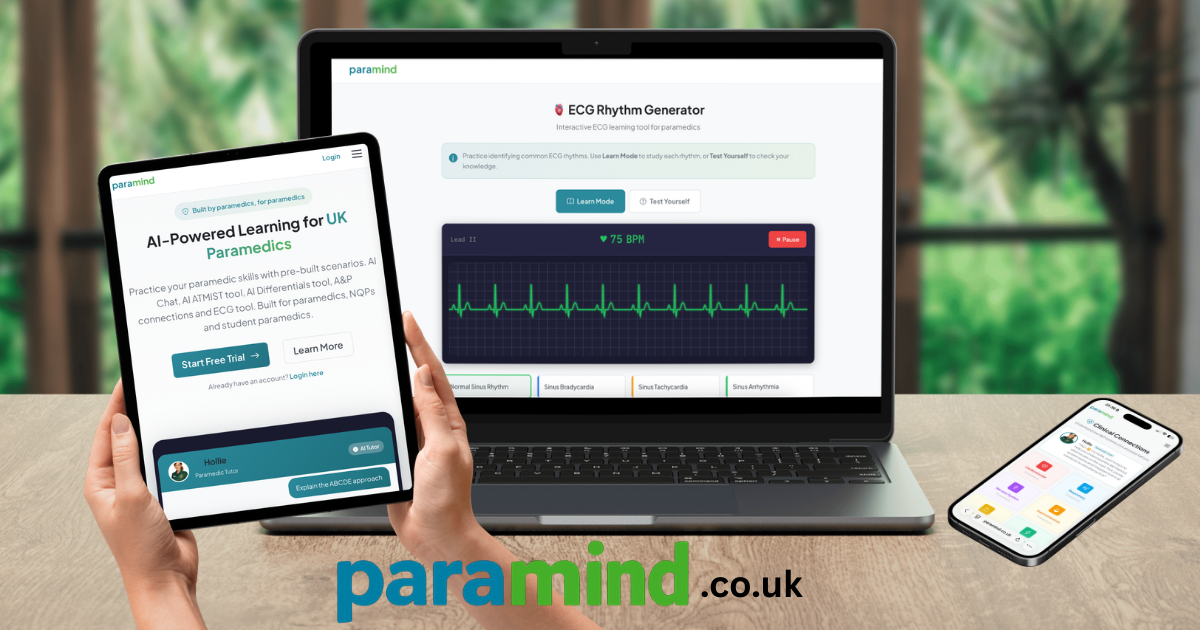
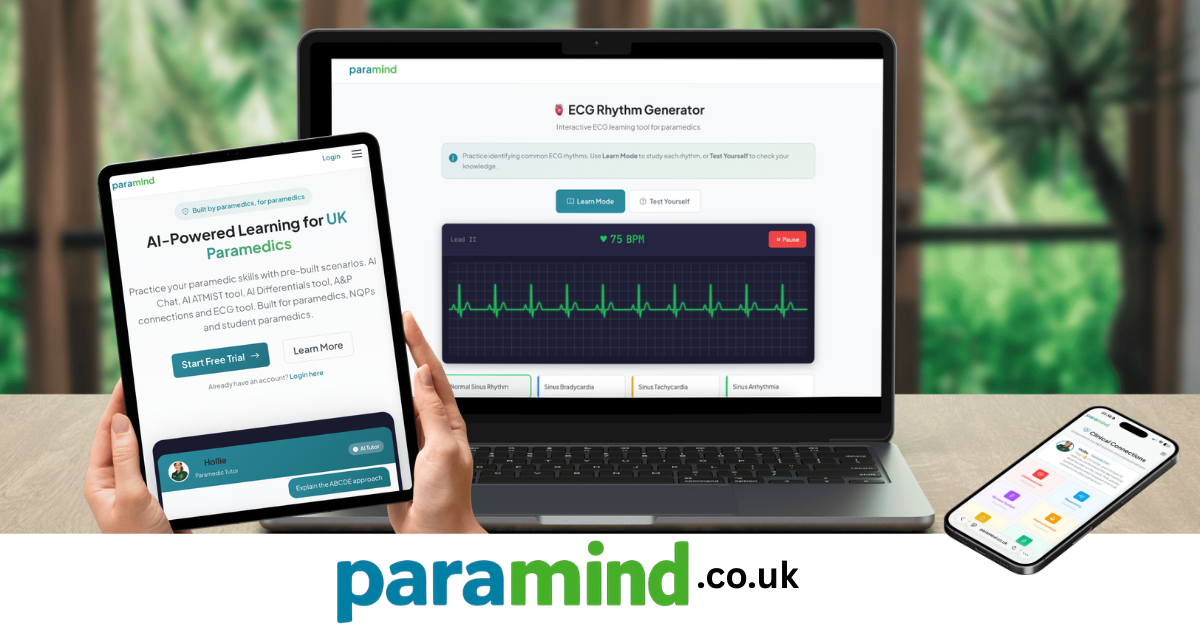
Bump social preview image version
Replace images/paramind-social-preview.png and update Open Graph image URLs to use ?v=1. index.html now appends ?v=1 to the OG image, and readiness.html was changed from ?v=3 to ?v=1. These changes ensure the updated social preview image is served (cache-busting) and unify the OG image version across pages.

Changed region(s): [[0.0, 0.6333, 1.0, 1.0]]

diff --git a/readiness.html b/readiness.html
@@ -9,7 +9,7 @@
     <meta name="description" content="Test your paramedic clinical knowledge with the free Paramind Readiness Score. 20 timed questions across 6 domains. Shareable results. No sign-up required.">
     <meta property="og:title" content="Paramind Readiness Score – How Ready Are You?">
     <meta property="og:description" content="Free 5-minute paramedic knowledge assessment. 20 timed questions, instant results, shareable score card.">
-    <meta property="og:image" content="https://www.paramind.co.uk/images/paramind-social-preview.png?v=3">
+    <meta property="og:image" content="https://www.paramind.co.uk/images/paramind-social-preview.png?v=1">
     <meta property="og:url" content="https://www.paramind.co.uk/readiness">
     <meta property="og:type" content="website">
     <meta name="twitter:card" content="summary_large_image">

diff --git a/index.html b/index.html
@@ -11,7 +11,7 @@
     <meta property="og:url" content="https://www.paramind.co.uk/">
     <meta property="og:title" content="Paramind | AI Learning Support for UK Paramedics">
     <meta property="og:description" content="AI-powered learning tool for UK paramedics. Practice scenarios and earn CPD certificates.">
-    <meta property="og:image" content="https://www.paramind.co.uk/images/paramind-social-preview.png">
+    <meta property="og:image" content="https://www.paramind.co.uk/images/paramind-social-preview.png?v=1">
 
     <!-- Twitter -->
     <meta name="twitter:card" content="summary_large_image">
